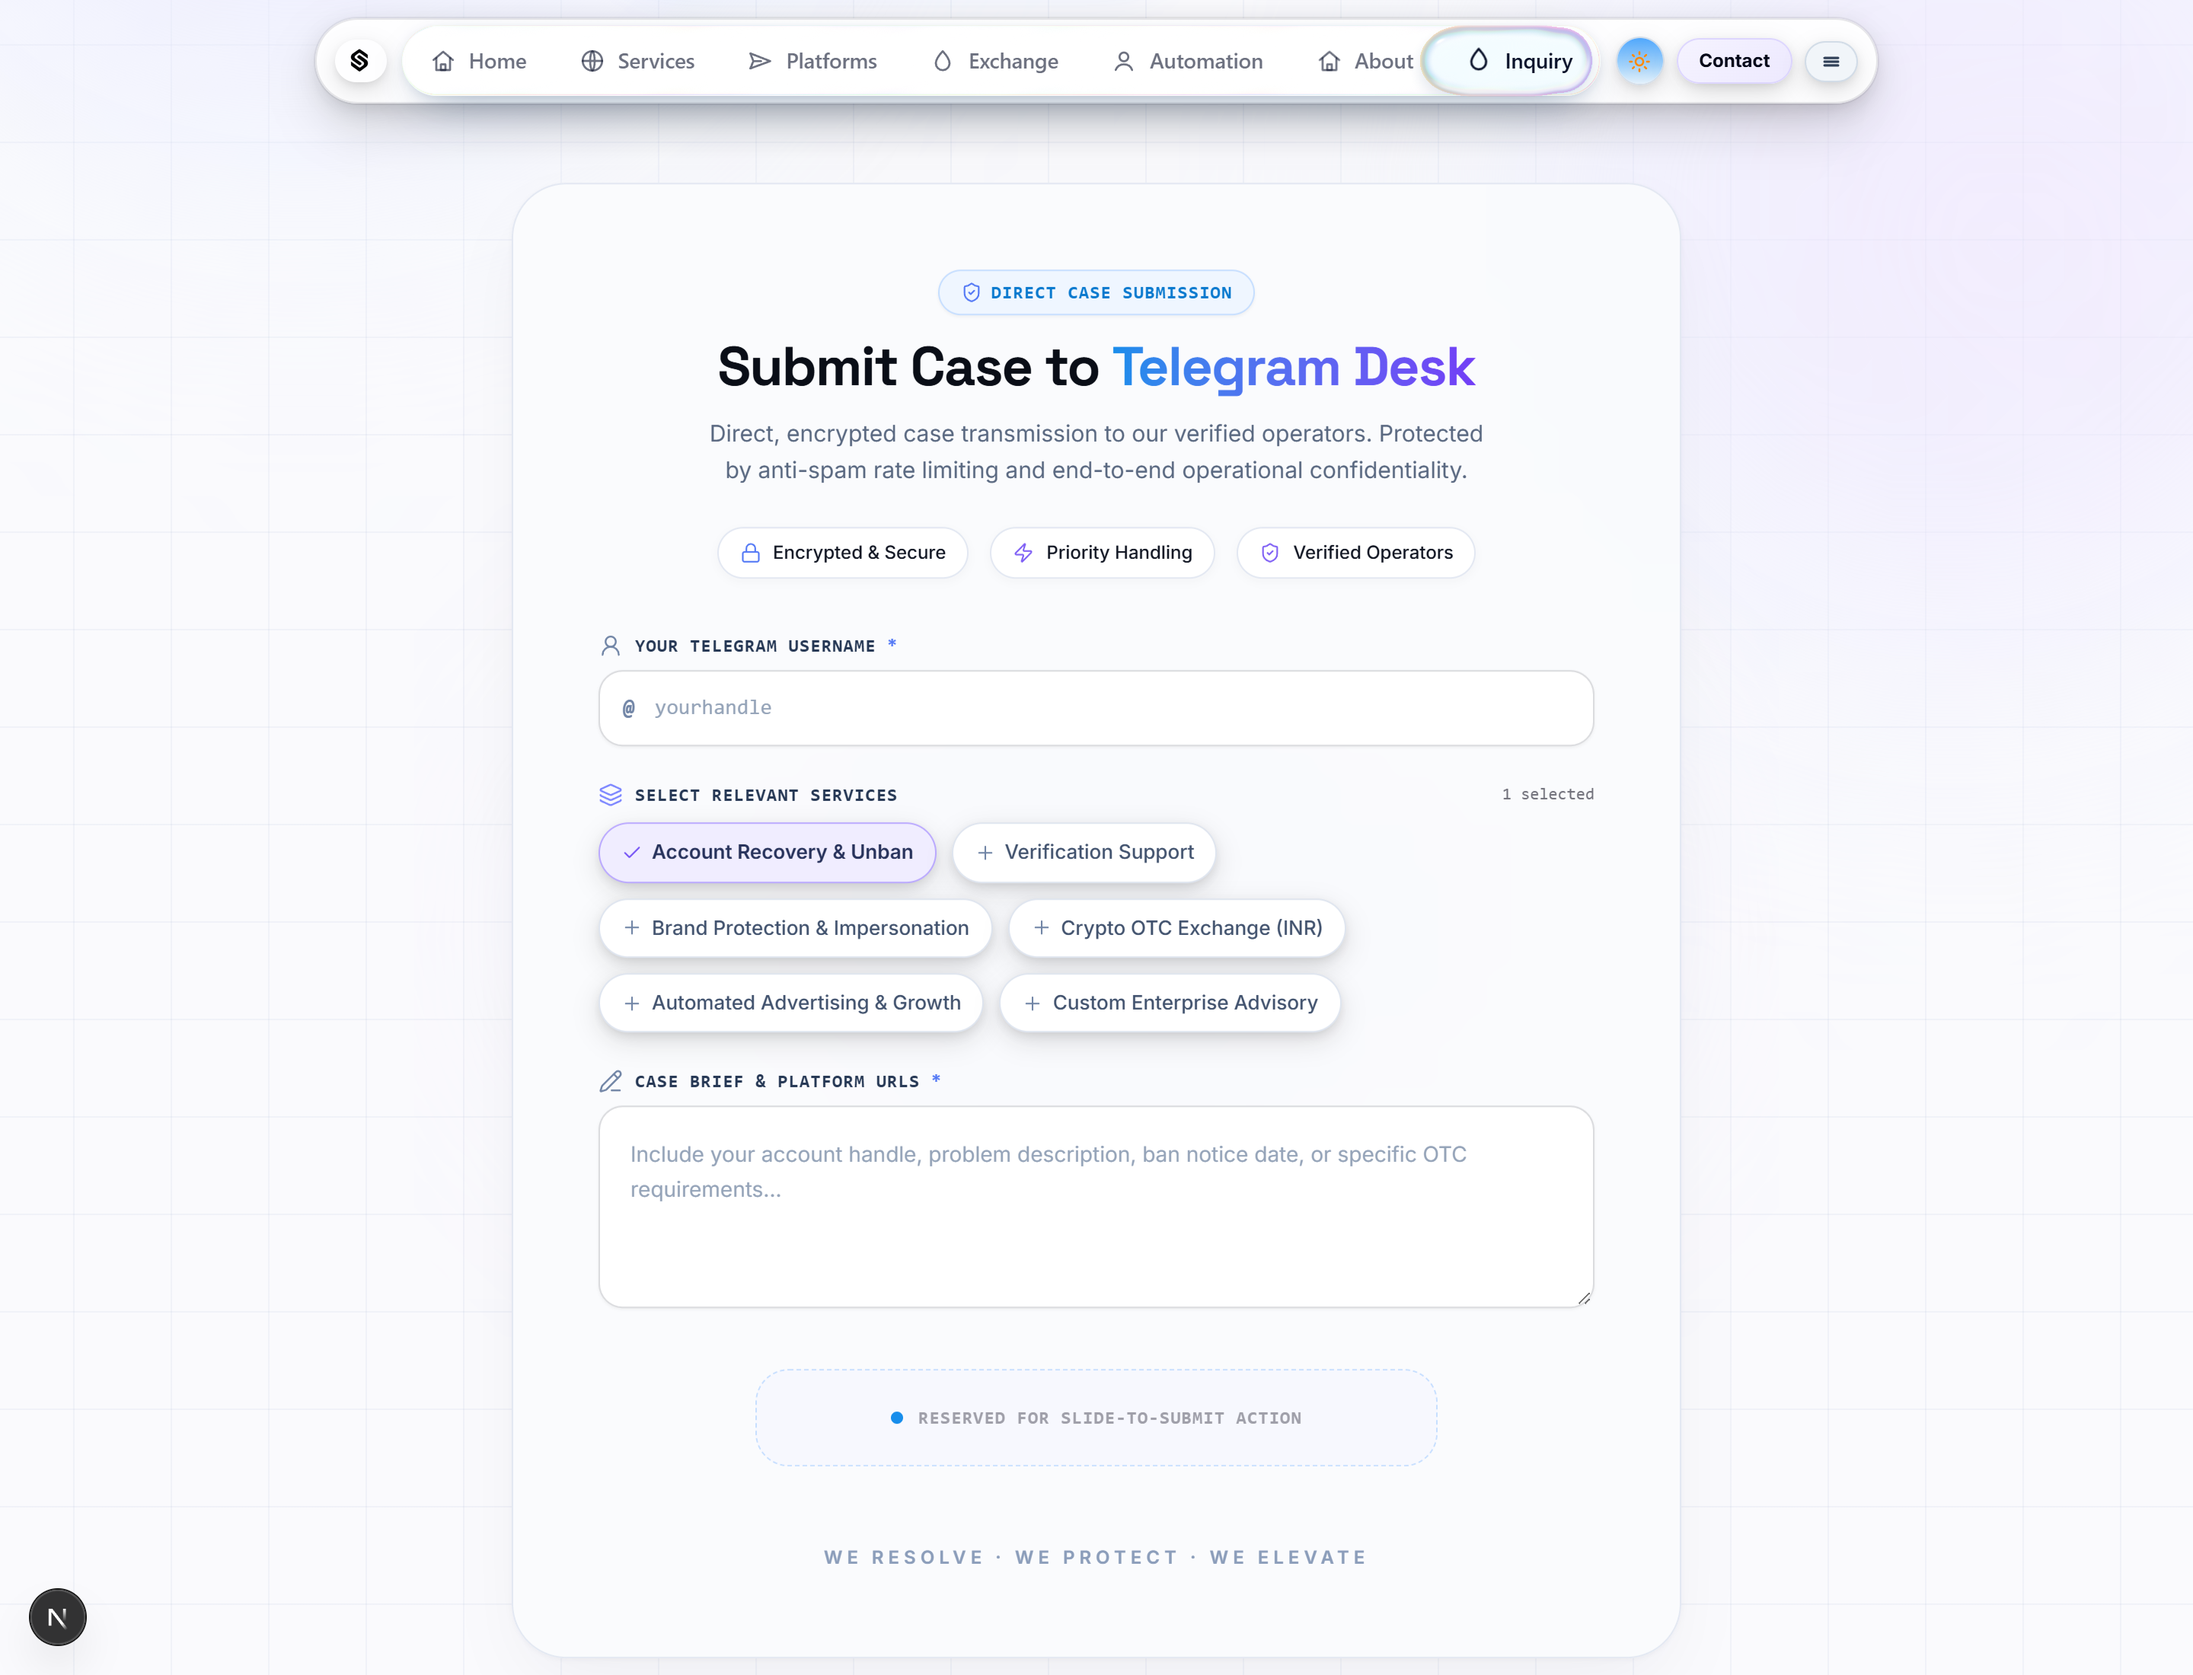
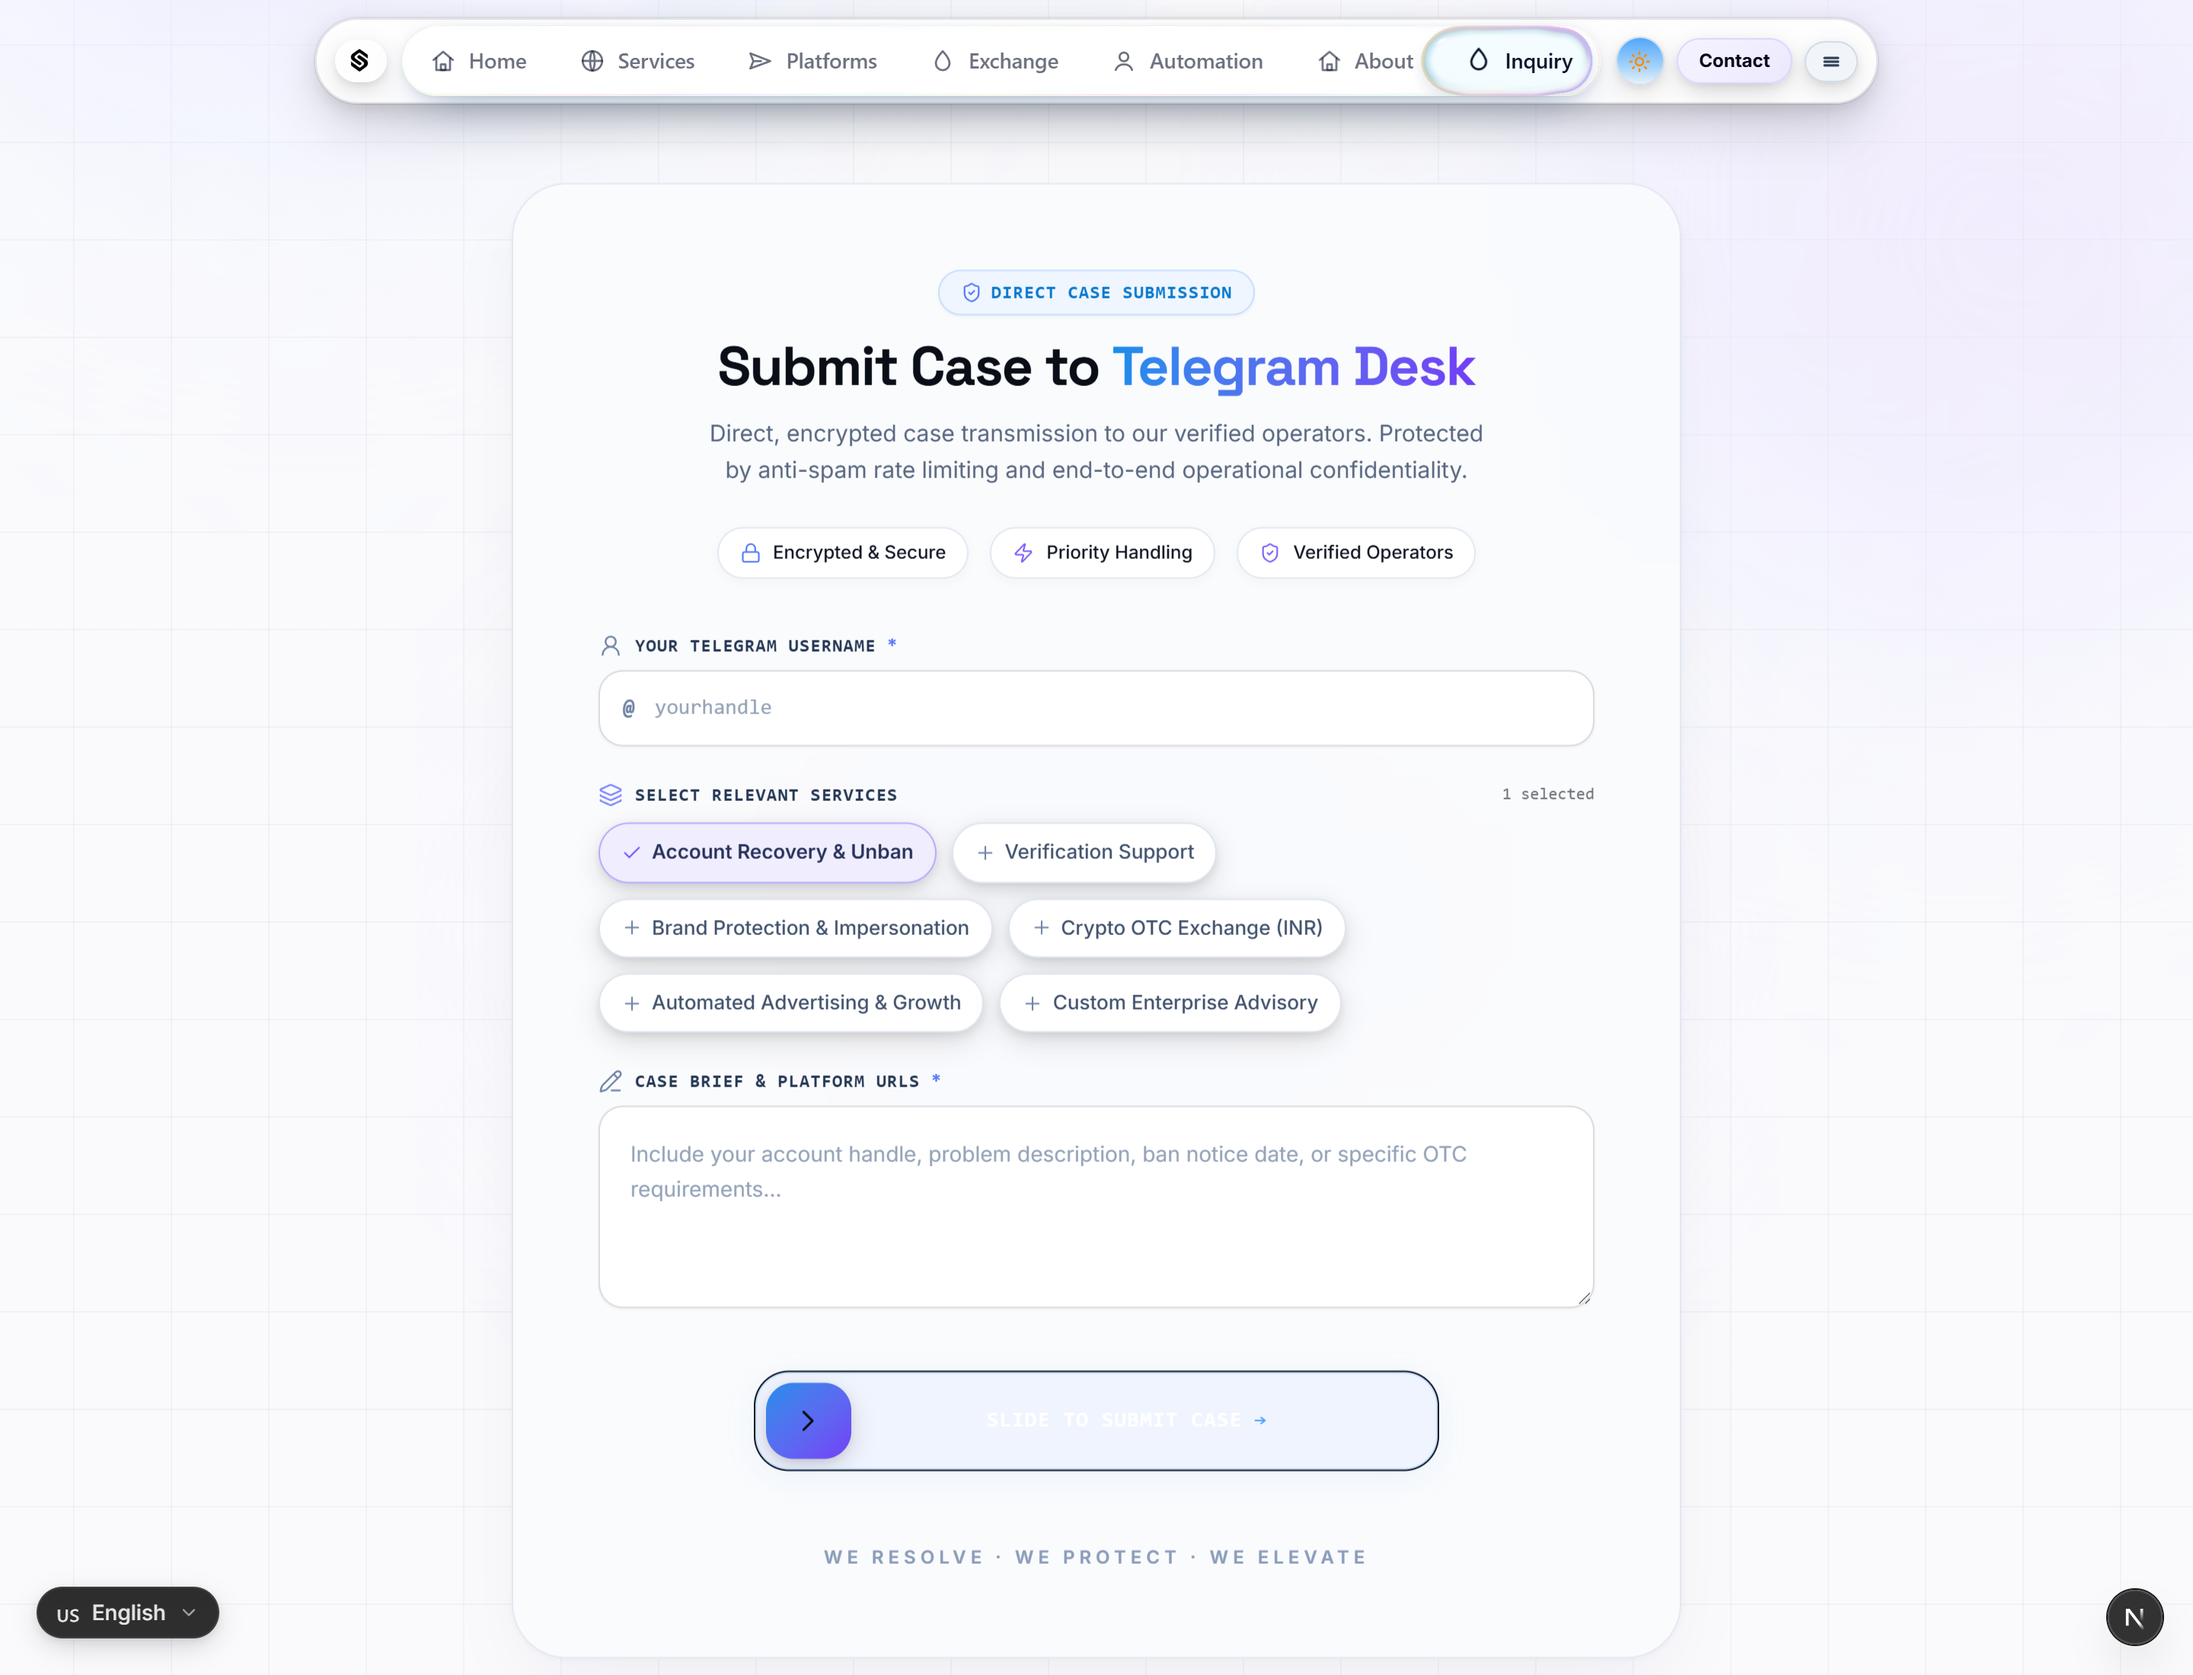
feat(inquiry): mount SlideActionButton in place of reserved slide-to-submit block

diff --git a/src/components/sections/TelegramInquiry.tsx b/src/components/sections/TelegramInquiry.tsx
@@ -2,6 +2,8 @@
 
 import { useEffect, useRef, useState } from "react";
 import { useTheme } from "@/components/ThemeProvider";
+import SlideActionButton from "@/components/ui/slide-action-button";
+import { cn } from "@/lib/utils";
 import {
   ShieldCheck,
   Lock,
@@ -58,8 +60,8 @@ export default function TelegramInquiry() {
     );
   };
 
-  const handleSubmit = async (e: React.FormEvent) => {
-    e.preventDefault();
+  const handleSubmit = async (e?: React.FormEvent) => {
+    if (e) e.preventDefault();
     if (!telegramUsername.trim()) {
       setStatus("error");
       setStatusMessage("Please enter your Telegram @username.");
@@ -360,29 +362,48 @@ export default function TelegramInquiry() {
               </div>
             )}
 
-            {/* 5. Slide-to-Submit Button — Dedicated Reserved Area */}
+            {/* 5. Slide-to-Submit Button — Integrated SlideActionButton */}
             <div
-              className="relative w-full pt-2 pb-1 flex flex-col items-center justify-center min-h-[72px] sm:min-h-[80px]"
-              data-testid="reserved-slide-button-slot"
+              className="relative w-full pt-3 pb-1 flex flex-col items-center justify-center min-h-[72px] sm:min-h-[80px]"
+              data-testid="slide-submit-container"
             >
-              {/* Dedicated reservation zone preserving form proportions & balanced spacing */}
-              <div
-                className={`w-full max-w-md h-14 sm:h-16 rounded-[22px] border border-dashed flex items-center justify-center px-4 transition-all duration-300 ${
+              <SlideActionButton
+                disabled={status === "loading"}
+                threshold={0.78}
+                resetDelay={2200}
+                onComplete={handleSubmit}
+                className={cn(
+                  "w-full max-w-md h-16 rounded-[22px] transition-all duration-300 p-1.5",
                   isLight
-                    ? "border-[#C7DFFF] bg-[#F5F6FF]/60 text-[#7D899F]"
-                    : "border-white/15 bg-white/[0.02] text-zinc-400"
-                }`}
+                    ? "bg-[#F0F4FF] border border-[#C7DFFF] text-[#101522] shadow-[0_4px_20px_rgba(22,141,235,0.08)] ring-0"
+                    : "bg-white/[0.04] border border-white/15 text-white shadow-[0_4px_20px_rgba(0,0,0,0.4)] ring-0"
+                )}
+                fillClassName="bg-gradient-to-r from-[#168DEB] via-[#4F46E5] to-[#713CF6]"
+                thumbClassName={cn(
+                  "h-full aspect-square rounded-[18px] text-white shadow-md transition-colors",
+                  isLight
+                    ? "bg-gradient-to-br from-[#168DEB] to-[#713CF6]"
+                    : "bg-gradient-to-br from-[#326BEE] to-[#8060F5]"
+                )}
+                completeLabel={
+                  status === "loading" ? (
+                    <span className="flex items-center gap-2 text-xs sm:text-sm font-bold uppercase tracking-wider font-mono text-white">
+                      <span className="w-3.5 h-3.5 border-2 border-white/40 border-t-white rounded-full animate-spin" />
+                      Transmitting Case...
+                    </span>
+                  ) : (
+                    <span className="flex items-center gap-1.5 text-xs sm:text-sm font-bold uppercase tracking-wider font-mono text-white">
+                      <Check className="w-4 h-4 text-emerald-300" strokeWidth={2.5} />
+                      Case Transmitted
+                    </span>
+                  )
+                }
               >
-                <div className="flex items-center gap-2.5">
-                  <span className="relative flex h-2 w-2">
-                    <span className="animate-ping absolute inline-flex h-full w-full rounded-full bg-[#168DEB] opacity-75" />
-                    <span className="relative inline-flex rounded-full h-2 w-2 bg-[#168DEB]" />
-                  </span>
-                  <span className="font-mono text-[11px] sm:text-xs font-semibold tracking-wider uppercase text-[#586780] dark:text-zinc-400">
-                    Reserved for Slide-to-Submit Action
-                  </span>
-                </div>
-              </div>
+                <span className="flex items-center gap-2 text-xs sm:text-sm font-bold uppercase tracking-wider font-mono text-[#101522] dark:text-white">
+                  <span>Slide to Submit Case</span>
+                  <span className="text-[#168DEB] dark:text-blue-400 font-black">→</span>
+                </span>
+              </SlideActionButton>
             </div>
           </form>
 

diff --git a/src/components/ui/slide-action-button.tsx b/src/components/ui/slide-action-button.tsx
@@ -39,6 +39,7 @@ export interface SlideActionButtonProps extends Omit<
   onComplete?: () => void;
   thumbClassName?: string;
   fillClassName?: string;
+  disabled?: boolean;
 }
 
 export function SlideActionButton({
@@ -49,6 +50,7 @@ export function SlideActionButton({
   onComplete,
   thumbClassName,
   fillClassName,
+  disabled = false,
   className,
   ...rest
 }: SlideActionButtonProps) {
@@ -137,6 +139,7 @@ export function SlideActionButton({
         // The track only carries the label — the slide starts on the thumb,
         // which suppresses selection for the whole gesture on its own.
         TOUCH_GESTURE_CONTENT_CLASS,
+        disabled && "opacity-60 pointer-events-none",
         className,
       )}
       {...rest}
@@ -170,8 +173,9 @@ export function SlideActionButton({
       <motion.button
         ref={thumbRef}
         type="button"
+        disabled={disabled}
         aria-label={typeof children === "string" ? children : "Slide action"}
-        drag={completed ? false : "x"}
+        drag={completed || disabled ? false : "x"}
         dragConstraints={{ left: 0, right: maxDistance }}
         dragElastic={0}
         dragMomentum={false}
@@ -181,13 +185,14 @@ export function SlideActionButton({
           else moveTo(0);
         }}
         onKeyDown={handleKeyDown}
-        whileTap={reduce || completed ? undefined : { scale: 0.94 }}
+        whileTap={reduce || completed || disabled ? undefined : { scale: 0.94 }}
         transition={SPRING_PRESS}
         className={cn(
           "relative z-10 grid size-14 touch-none cursor-grab place-items-center rounded-[18px] bg-primary text-primary-foreground shadow-sm",
           TOUCH_GESTURE_CLASS,
           "outline-none active:cursor-grabbing focus-visible:ring-2 focus-visible:ring-primary focus-visible:ring-offset-2 focus-visible:ring-offset-background",
           completed && "cursor-default bg-background text-foreground",
+          disabled && "cursor-not-allowed opacity-60",
           thumbClassName,
         )}
       >
